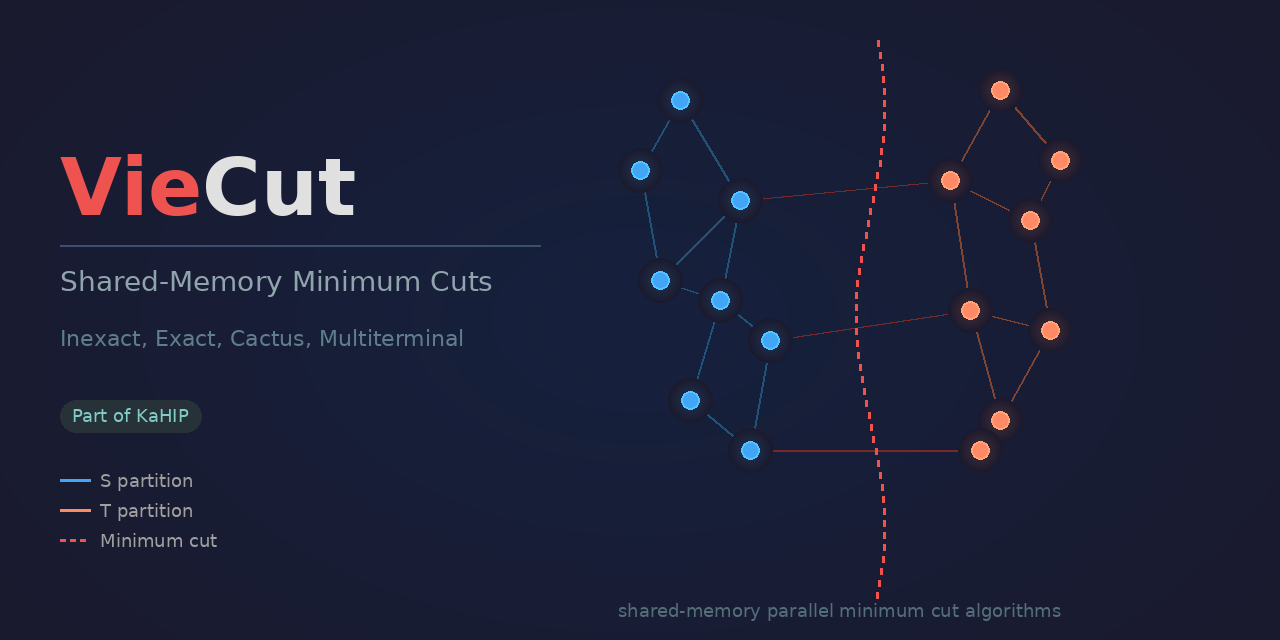
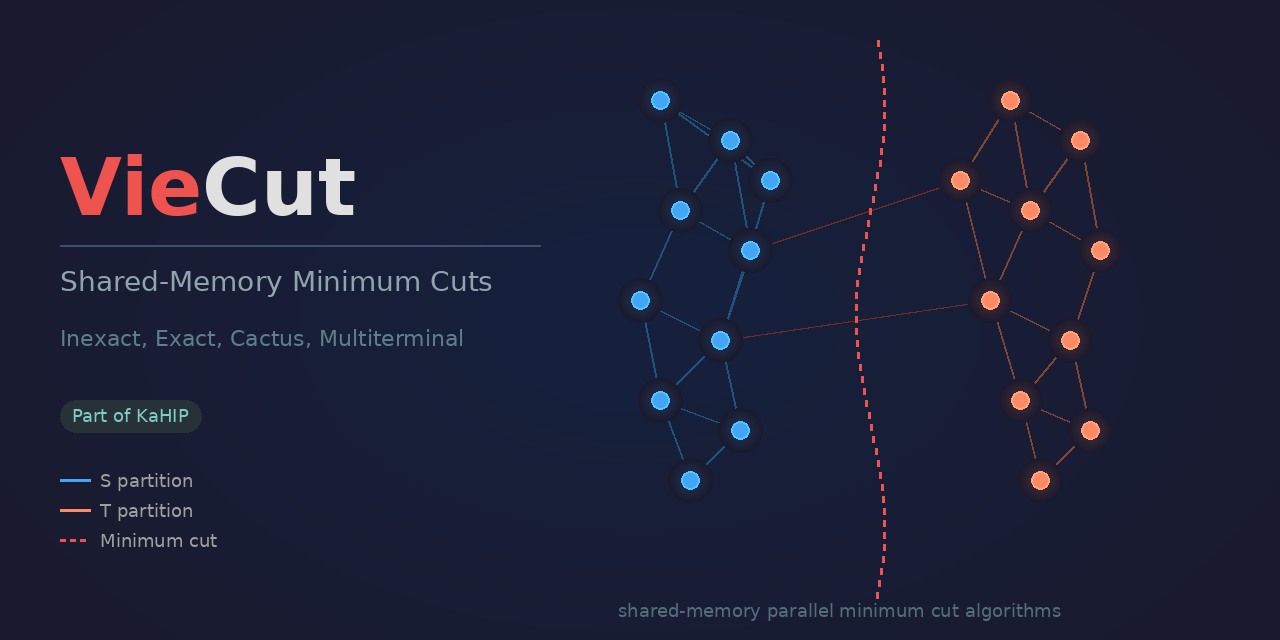
Fix social preview to show actual minimum cut
Redesign graph so the cut has only 2 crossing edges while
both partitions are densely connected internally.

diff --git a/img/generate-social-preview.py b/img/generate-social-preview.py
@@ -26,35 +26,38 @@ orange = (255, 138, 101)    # #ff8a65 - T partition
 red_cut = (239, 83, 80)     # #ef5350 - cut line
 bg = (26, 26, 46)
 
-# S partition nodes (left side of graph area)
+# S partition nodes (left side, densely connected)
 s_nodes = [
-    (680, 100), (740, 200), (660, 280), (770, 340),
-    (640, 170), (720, 300), (690, 400), (750, 450),
+    (660, 100), (730, 140), (680, 210), (750, 250),
+    (640, 300), (720, 340), (660, 400), (740, 430),
+    (690, 480), (770, 180),
 ]
 
-# T partition nodes (right side of graph area)
+# T partition nodes (right side, densely connected)
 t_nodes = [
-    (1000, 90), (950, 180), (1030, 220), (970, 310),
-    (1050, 330), (1000, 420), (1060, 160), (980, 450),
+    (1010, 100), (1080, 140), (1030, 210), (1100, 250),
+    (990, 300), (1070, 340), (1020, 400), (1090, 430),
+    (1040, 480), (960, 180),
 ]
 
-# Intra-partition edges (S)
+# Intra-partition edges (S) - well connected
 s_edges = [
-    (0, 1), (0, 4), (4, 2), (1, 2), (1, 5), (2, 5),
-    (5, 3), (5, 6), (3, 7), (6, 7),
+    (0, 1), (0, 2), (1, 2), (1, 3), (2, 3), (2, 4),
+    (3, 5), (4, 5), (4, 6), (5, 6), (5, 7), (6, 7),
+    (6, 8), (7, 8), (0, 9), (1, 9), (3, 9), (9, 5),
 ]
 
-# Intra-partition edges (T)
+# Intra-partition edges (T) - well connected
 t_edges = [
-    (0, 1), (0, 6), (1, 2), (6, 2), (1, 3), (2, 4),
-    (3, 4), (3, 5), (4, 5), (5, 7),
+    (0, 1), (0, 2), (1, 2), (1, 3), (2, 3), (2, 4),
+    (3, 5), (4, 5), (4, 6), (5, 6), (5, 7), (6, 7),
+    (6, 8), (7, 8), (0, 9), (9, 2), (9, 4), (1, 3),
 ]
 
-# Cut edges (crossing S to T)
+# Cut edges - only 2 edges cross, making it a clear minimum cut
 cut_edges = [
-    (1, 1),  # S[1] to T[1]
-    (3, 3),  # S[3] to T[3]
-    (7, 7),  # S[7] to T[7]
+    (3, 9),  # S[3] to T[9]
+    (5, 4),  # S[5] to T[4]
 ]
 
 # Draw intra-S edges
